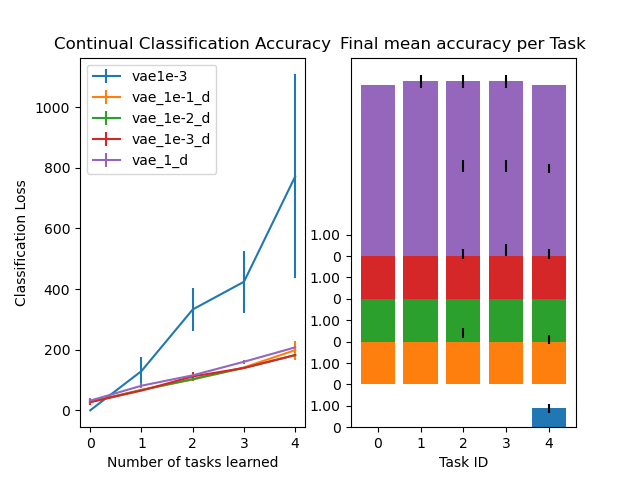
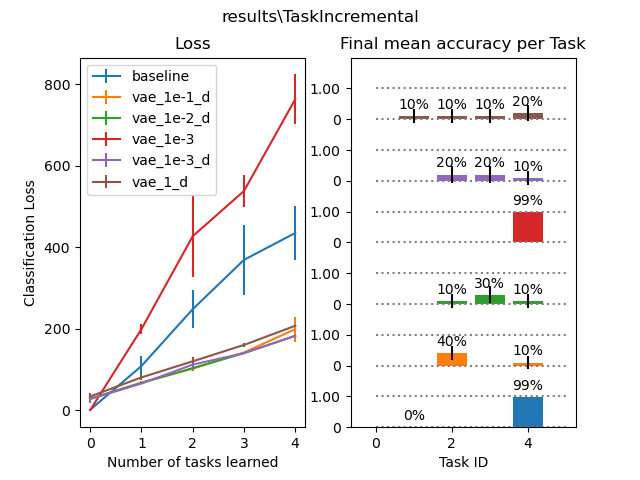
Added run groups, added results_dir to Experiment

diff --git a/scripts/make_oml_plot.py b/scripts/make_oml_plot.py
@@ -1,5 +1,5 @@
 import torch
-from simple_parsing import ArgumentParser, field
+from simple_parsing import ArgumentParser, field, list_field
 from dataclasses import dataclass
 from pathlib import Path
 from typing import List, Iterable
@@ -14,12 +14,13 @@ import glob
 @dataclass
 class Options:
     """ Options for the script making the OML Figure 3 plot. """
-    runs_to_compare: List[str] = field(type=glob.glob)
+    runs_to_compare: List[str] = field(type=glob.glob, default_factory=lambda: glob.glob("results/*"))
     out_path: Path = Path("scripts/plot.png")
 
     def __post_init__(self):
         if len(self.runs_to_compare) == 1 and isinstance(self.runs_to_compare[0], list):
             self.runs_to_compare = self.runs_to_compare[0]
+
 
 def make_plot(options: Options) -> plt.Figure:
     runs: List[Path] = list(map(Path, options.runs_to_compare))
@@ -35,23 +36,35 @@ def make_plot(options: Options) -> plt.Figure:
         if all(p.exists() and p.is_file for p in required_files):
             kept_runs.append(run)
     
-
     n = len(kept_runs)
     print(f"Creating the OML plot to compare the {n} different methods:")
 
     fig: plt.Figure = plt.figure()
+    
+    title = str(kept_runs[0].parent)
+    for run in kept_runs:
+        if str(run.parent) != title:
+            title = "Results"
+            break
+    fig.suptitle(title)
+
     ax1: plt.Axes = fig.add_subplot(1, 2, 1)
-    ax1.set_title("Continual Classification Accuracy")
+    ax1.set_title("Cumulative Loss")
     ax1.set_xlabel("Number of tasks learned")
-    ax1.set_ylabel("Classification Loss")
+    ax1.set_ylabel("Cumulative Validation Loss")
     ax1.legend(loc="upper left")
 
     ax2: plt.Axes = fig.add_subplot(1, 2, 2)
     ax2.set_title(f"Final mean accuracy per Task")
     ax2.set_xlabel("Task ID")
 
-    ax2.set_yticks(np.arange(0, 2*n, 1, dtype=int))
-    ax2.set_yticklabels(['0', '0.25', '0.50' '1.00']*n)
+    indicators = ["0", "1.00"]
+    bar_height_scale = len(indicators) - 1
+    ax2.set_yticks(np.arange(len(indicators)*n))
+    ax2.set_yticklabels(indicators*n)
+    ax2.set_ylim(top=len(indicators) * n)
+    ax2.hlines(y=np.arange(len(indicators)*n), xmin=0, xmax=5, linestyles="dotted", colors="gray")
+    
 
     for i, run_path in enumerate(kept_runs):
         valid_loss = torch.load(run_path / "plots" / "valid_losses.pt")
@@ -62,27 +75,49 @@ def make_plot(options: Options) -> plt.Figure:
 
         task_accuracy_means = final_task_accuracy.mean(dim=0).numpy()
         task_accuracy_std =   final_task_accuracy.std(dim=0).numpy()
+        
         n_tasks= len(task_accuracy_means)
+        label = str(run_path.parts[-1])
 
         print(f"Run {run_path}:")
         print("\t Loss Means:", loss_means)
         print("\t Loss STDs:", loss_stds)
         print("\t Final Task Accuracy means:", task_accuracy_means)
         print("\t Final Task Accuracy stds:", task_accuracy_std)
-        ax1.set_xticks(np.arange(n_tasks, dtype=int))
-        ax2.set_xticks(np.arange(n_tasks, dtype=int))
         ax1.errorbar(x=np.arange(n_tasks), y=loss_means, yerr=loss_stds, label=str(run_path.parts[-1]))
 
         # TODO: figure out how to stack the bars like in OML plot.
-        bottom = 2*i
-        height = task_accuracy_means + bottom
-        ax2.bar(x=np.arange(n_tasks), height=height, bottom=bottom, yerr=task_accuracy_std, label=str(run_path.parts[-1]))
+        bottom = len(indicators) * i
+        print(f"Bottom: {bottom}")
+        height = bar_height_scale * task_accuracy_means
+        rects = ax2.bar(x=np.arange(n_tasks), height=height, bottom=bottom, yerr=task_accuracy_std, label=label)
+        autolabel(ax2, rects, bar_height_scale)
 
     ax1.legend(loc="upper left")
 
     fig.savefig(options.out_path)
     fig.show()
     fig.waitforbuttonpress(timeout=30)
+
+
+def autolabel(axis, rects: List[plt.Rectangle], bar_height_scale: float):
+    """Attach a text label above each bar in *rects*, displaying its height.
+    
+    Taken from https://matplotlib.org/gallery/lines_bars_and_markers/barchart.html#sphx-glr-gallery-lines-bars-and-markers-barchart-py
+    """
+    for rect in rects:
+        height = rect.get_height()
+        bottom = rect.get_y()
+        value = height / bar_height_scale
+        if value != 0.0:    
+            axis.annotate(
+                f"{value:.0%}",
+                xy=(rect.get_x() + rect.get_width() / 2, bottom + height),
+                xytext=(0, 3),  # 3 points vertical offset
+                textcoords="offset points",
+                ha="center",
+                va="bottom",
+            )
 
 
 if __name__ == "__main__":

diff --git a/experiments/task_incremental.py b/experiments/task_incremental.py
@@ -1,6 +1,7 @@
 from collections import OrderedDict
 from dataclasses import dataclass
 from itertools import accumulate
+from pathlib import Path
 from random import shuffle
 from typing import Dict, Iterable, List, Tuple, Union
 
@@ -20,6 +21,7 @@ from datasets.subset import VisionDatasetSubset
 from experiments.class_incremental import ClassIncremental
 from experiments.experiment import Experiment
 from utils.utils import n_consecutive, rgetattr, rsetattr
+
 
 @dataclass
 class TaskIncremental(Experiment):
@@ -48,9 +50,11 @@ class TaskIncremental(Experiment):
         self.valid_cumul_datasets: List[VisionDatasetSubset] = []
         self.task_classes: List[List[int]] = list()
 
-    def run(self):
+    def run(self) -> Dict[Path, Tensor]:
         valid_losses_list: List[List[LossInfo]] = []
         final_task_accuracies_list: List[Tensor] = []
+
+        results: Dict[Path, Tensor] = {}
 
         for i in range(self.n_runs):
             print(f"STARTING RUN {i}")
@@ -58,35 +62,36 @@ class TaskIncremental(Experiment):
             valid_losses_list.append(valid_losses)
             final_task_accuracies_list.append(final_task_accuracies)
 
+            # stack the lists of tensors into tensors.
+            valid_loss = stack_loss_attr(valid_losses_list, "total_loss")
+            final_task_accuracy = torch.stack(final_task_accuracies_list)
+
             # Save after each run, just in case we interrupt anything, so we
             # still get partial results even if something goes wrong at some
             # point.
-            valid_loss = stack_loss_attr(valid_losses_list, "total_loss")
-            final_task_accuracy = torch.stack(final_task_accuracies_list)
-            torch.save(valid_loss, self.plots_dir / 'valid_losses.pt')
-            torch.save(final_task_accuracy, self.plots_dir / 'final_task_accuracy.pt')
+            if not self.results_dir.exists():
+                self.results_dir.mkdir(parents=True)
+            torch.save(valid_loss, self.results_dir / 'valid_losses.pt')
+            torch.save(final_task_accuracy, self.results_dir / 'final_task_accuracy.pt')
 
         loss_means = valid_loss.mean(dim=0).detach().numpy()
         loss_stds = valid_loss.std(dim=0).detach().numpy()
         task_accuracy_means = final_task_accuracy.mean(dim=0).detach().numpy()
         task_accuracy_std =   final_task_accuracy.std(dim=0).detach().numpy()
-        
-        
+            
         n_tasks= len(task_accuracy_means)
 
-        print("CUMULATIVE VALID LOSS:")
-        print(valid_loss)
-        print("FINAL MEAN TASK ACCURACies:")
-        print(final_task_accuracy)    
+        self.log({
+            "Cumulative valid loss": valid_loss,
+            "Final mean task accuracies": final_task_accuracy,
+            "Loss Means": loss_means,
+            "Loss STDs": loss_stds,
+            "Final Task Accuracy means:": task_accuracy_means,
+            "Final Task Accuracy stds:": task_accuracy_std,
+            }, once=True, always_print=True)
 
-        print("Loss Means:", loss_means)
-        print("Loss STDs:", loss_stds)
-
-        print("Final Task Accuracy means:", task_accuracy_means)
-        print("Final Task Accuracy stds:", task_accuracy_std)
-        
         fig: plt.Figure = plt.figure()
-
+        fig.suptitle(f"{self.config.run_group} - {self.config.run_name}")
         ax1: plt.Axes = fig.add_subplot(1, 2, 1)
         ax1.errorbar(x=np.arange(n_tasks), y=loss_means, yerr=loss_stds, label=self.config.run_name)
         ax1.set_title("Cumulative Validation Error")
@@ -104,9 +109,12 @@ class TaskIncremental(Experiment):
             fig.show()
             fig.waitforbuttonpress(timeout=10)
         fig.savefig(self.plots_dir / "oml_fig.jpg")
-        self.log({"OML": fig}, once=True)
+        self.log({"oml_fig.jpg": fig}, once=True)
 
-        return 
+        return {
+            self.results_dir / "valid_losses.pt": valid_losses,
+            self.results_dir / "final_task_accuracy.pt": final_task_accuracy, 
+        }
     
     def _run(self) -> Tuple[List[LossInfo], Tensor]:
         """Executes one single run from the OML figure 3.

diff --git a/main.py b/main.py
@@ -4,7 +4,7 @@ import pprint
 from dataclasses import asdict, dataclass, is_dataclass
 from os import path
 from pathlib import Path
-from typing import Any, Dict, Iterable, List, Tuple, Union
+from typing import Any, Dict, Iterable, List, Tuple, Union, Optional
 
 import torch
 import wandb
@@ -29,6 +29,7 @@ class RunSettings(JsonSerializable):
         "class-incremental": ClassIncremental,
         "task-incremental": TaskIncremental,
     })
+    notes: Optional[str] = None
 
     def __post_init__(self):
         if self.experiment.config.verbose:     
@@ -45,22 +46,59 @@ if __name__ == "__main__":
     args = parser.parse_args()
     settings: RunSettings = args.settings
 
+    config = settings.experiment.config
     config_dict = asdict(settings.experiment)
+    # pprint.pprint(config_dict, indent=1)
+
     if settings.experiment.config.use_wandb:
         wandb_path = settings.experiment.config.log_dir_root.joinpath('wandb')
         wandb_path.mkdir(parents=True, mode=0o777, exist_ok=True)
 
-        # pprint.pprint(config_dict, indent=1)
-        # keys_to_remove: List[str] = []
-
-        wandb.init(project='SSCL', name=settings.experiment.config.run_name, config=config_dict, dir=str(wandb_path))
+        config.run_group = config.run_group or type(settings.experiment).__name__
+        
+        print(f"Using wandb. Experiment name: {config.run_name}")
+        if config.run_name is None:
+            # TODO: Create a run name using the coefficients of the tasks, etc?
+            # At the moment, if no run name is given, ths
+            pass
+        
+        wandb.init(project='SSCL', name=config.run_name, group=config.run_group, config=config_dict, dir=str(wandb_path))
         wandb.run.save()
-        settings.experiment.config.run_name = wandb.run.name
-        print(f"Using wandb. Experiment name: {settings.experiment.config.run_name}")
 
-    settings.experiment.config.log_dir.mkdir(parents=True, exist_ok=True)
-    settings.experiment.save()
+        if config.run_name is None:
+            config.run_name = wandb.run.name
+        
+        print(f"Using wandb. Group name: {config.run_group} run name: {config.run_name}, log_dir: {config.log_dir}")
+    
+    log_dir: Path = config.log_dir
+    experiment_started = log_dir.is_dir()
 
-    print("-" * 10, f"Starting experiment '{type(settings.experiment).__name__}' ({settings.experiment.config.log_dir})", "-" * 10)
-    settings.experiment.run()
-    print("-" * 10, f"Experiment '{type(settings.experiment).__name__}' is done.", "-" * 10)
+    experiment_results_dir = (log_dir / "results")
+    experiment_done = experiment_results_dir.is_dir()
+
+    if experiment_done:
+        print(f"Experiment is already done. Exiting.")
+        exit(0)
+    if experiment_started:
+        print(f"Experiment is incomplete at directory {log_dir}.")
+        # TODO: pick up where we left off ?
+        # latest_checkpoint = log_dir / "checkpoints" / "todo"
+        # settings.experiment = torch.load(latest_checkpoints)
+    
+    try:
+        print("-" * 10, f"Starting experiment '{type(settings.experiment).__name__}' ({settings.experiment.config.log_dir})", "-" * 10)
+        
+        settings.experiment.save()
+        results: Optional[Dict[Union[str, Path], Any]] = settings.experiment.run()
+        # write out the results of an experiment, if any.
+        if results is not None:
+            for key, value in results.items():
+                with open(experiment_results_dir / key) as f:
+                    if results is not None:
+                        torch.save(results, f)
+        
+        print("-" * 10, f"Experiment '{type(settings.experiment).__name__}' is done.", "-" * 10)
+    
+    except Exception as e:
+        print(f"Experiment crashed: {e}")
+        raise e

diff --git a/config.py b/config.py
@@ -38,6 +38,9 @@ class Config:
     device: torch.device = torch.device("cuda" if cuda_available else "cpu")
     
     use_wandb: bool = True # Whether or not to log results to wandb
+    # Name used to easily group runs together.
+    # Used to create a parent folder that will contain the `run_name` directory. 
+    run_group: Optional[str] = None 
     run_name: Optional[str] = None  # Wandb run name. If None, will use wandb's automatic name generation
 
     def __post_init__(self):
@@ -49,12 +52,16 @@ class Config:
             print("Cannot use the passed value of argument 'use_cuda', as CUDA "
                   "is not available!")
             self.use_cuda = False
-        
+        if not self.use_cuda:
+            self.device = torch.device("cpu")
+
         if self.debug:
             self.use_wandb = False
             self.run_name = "debug"
             if self.log_dir.exists():
+                # wipe out the debug folder every time.
                 shutil.rmtree(self.log_dir)
+            
             self.log_dir.mkdir(exist_ok=False, parents=True)
 
             if self.use_cuda:
@@ -62,12 +69,10 @@ class Config:
                 torch.backends.cudnn.deterministic = True
                 torch.backends.cudnn.benchmark = False
 
-        if not self.use_cuda:
-            self.device = torch.device("cpu")
     
     @property
     def log_dir(self):
-        return self.log_dir_root.joinpath(self.run_name or 'default')
+        return self.log_dir_root.joinpath(self.run_group or "", self.run_name or 'default')
 
 
 # shared config object.

diff --git a/experiments/experiment.py b/experiments/experiment.py
@@ -263,9 +263,9 @@ class Experiment:
             pin_memory=self.config.use_cuda
         )
 
-    def _folder(self, folder: Union[str, Path]):
+    def _folder(self, folder: Union[str, Path], create: bool=True):
         path = self.config.log_dir / folder
-        if not path.is_dir():
+        if create and not path.is_dir():
             path.mkdir(parents=True)
         return path
 
@@ -286,6 +286,10 @@ class Experiment:
         return self._folder("")
 
     @property
+    def results_dir(self) -> Path:
+        return self._folder("results", create=False)
+
+    @property
     def config_path(self) -> Path:
         return self.log_dir / "config.pt"
 
@@ -299,7 +303,7 @@ class Experiment:
         #     torch.save(self, f)
 
     @classmethod
-    def load(cls, config_path: Union[Path, str]):
+    def load_from_config(cls, config_path: Union[Path, str]):
         with open(config_path) as f:
             return torch.load(f)
 
